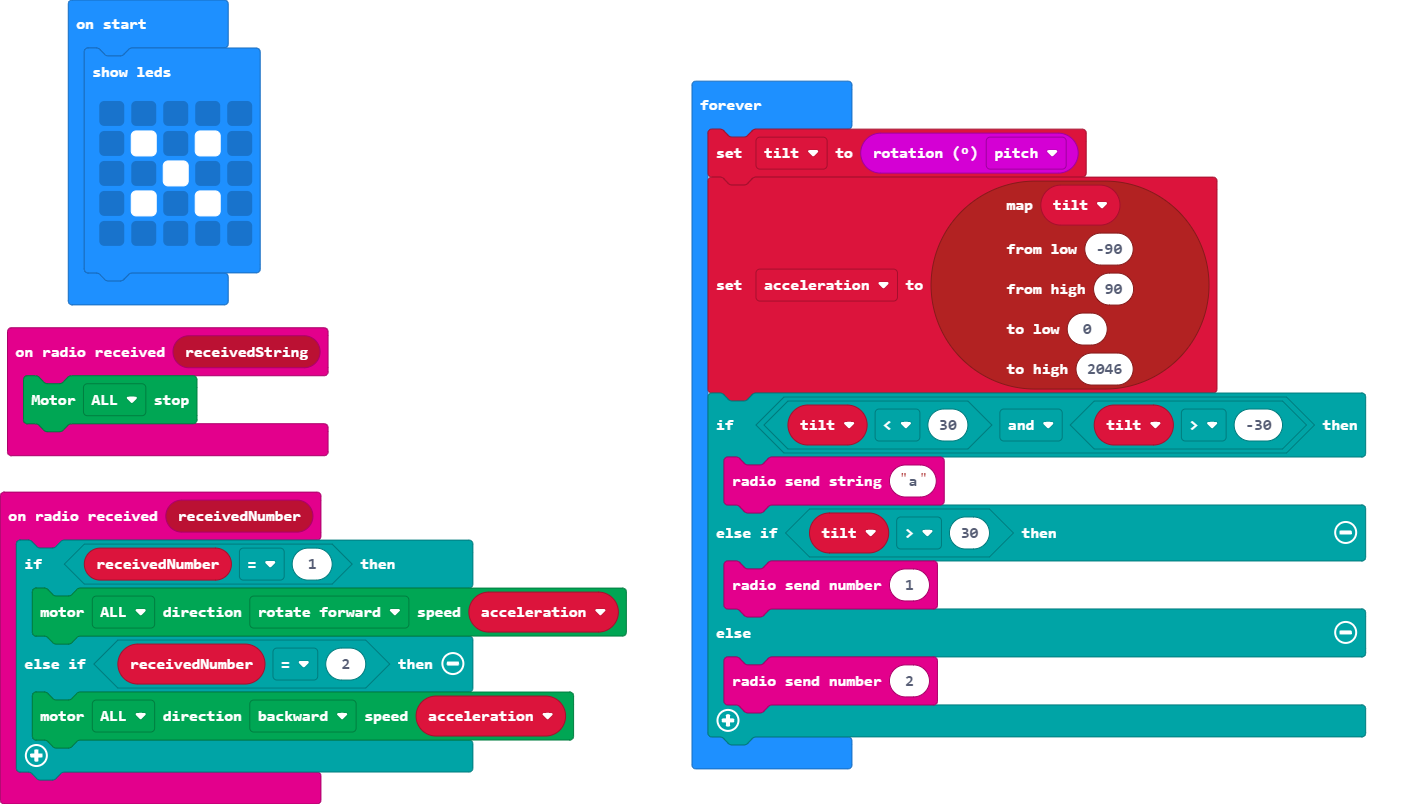
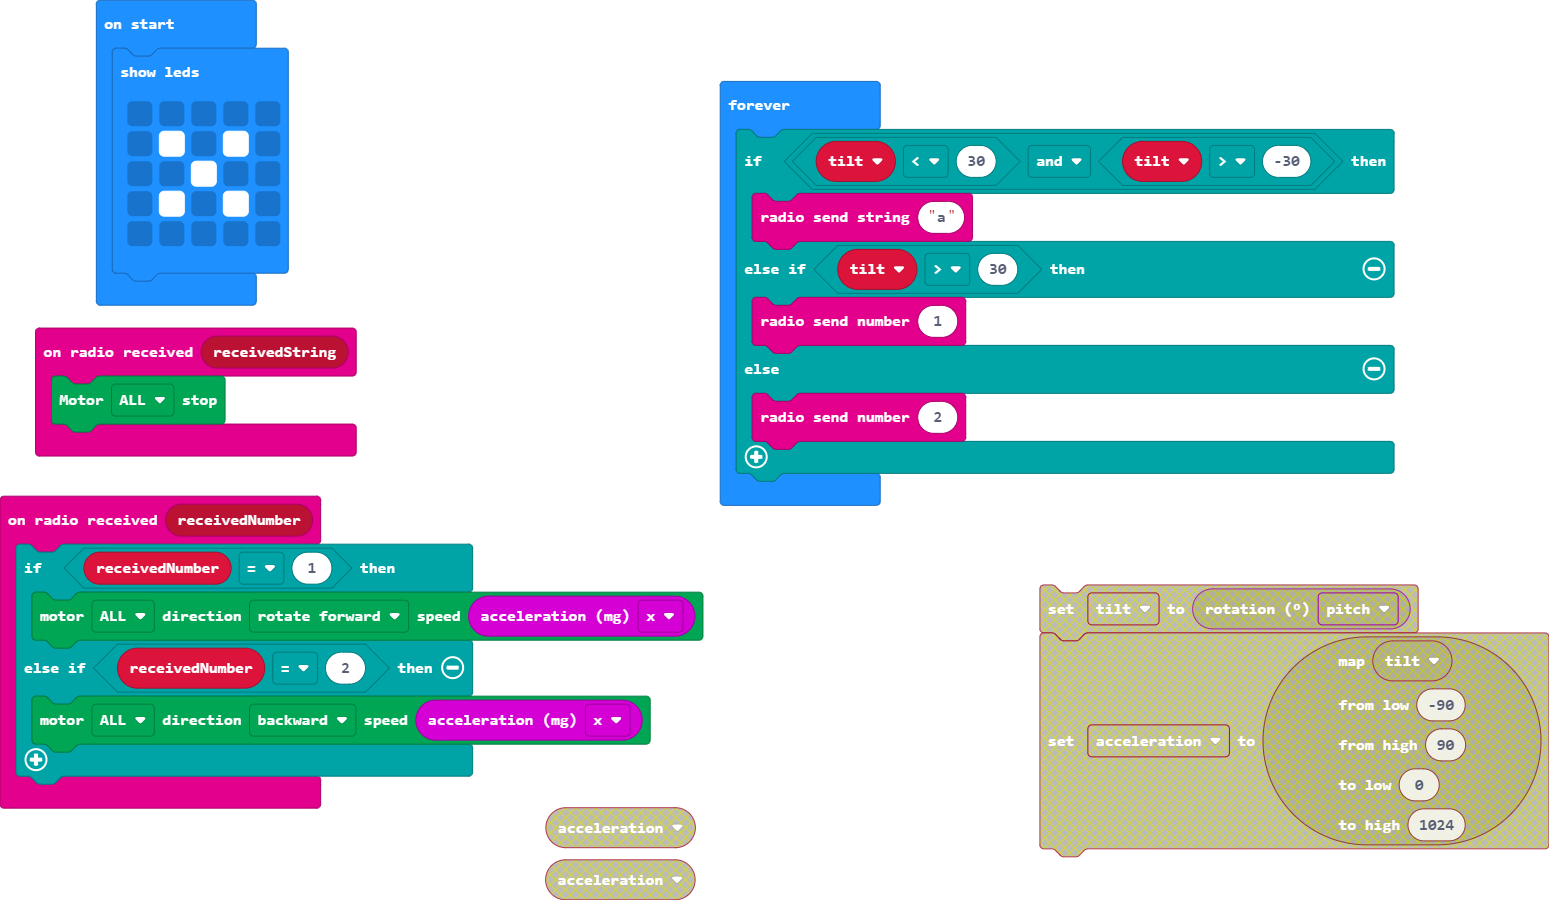
Update main.blocks, main.ts

diff --git a/main.ts b/main.ts
@@ -1,15 +1,13 @@
 radio.onReceivedNumber(function (receivedNumber) {
     if (receivedNumber == 1) {
-        DFRobotMaqueenPlus.mototRun(Motors.ALL, Dir.CW, acceleration)
+        DFRobotMaqueenPlus.mototRun(Motors.ALL, Dir.CW, input.acceleration(Dimension.X))
     } else if (receivedNumber == 2) {
-        DFRobotMaqueenPlus.mototRun(Motors.ALL, Dir.CCW, acceleration)
+        DFRobotMaqueenPlus.mototRun(Motors.ALL, Dir.CCW, input.acceleration(Dimension.X))
     }
 })
 radio.onReceivedString(function (receivedString) {
     DFRobotMaqueenPlus.mototStop(Motors.ALL)
 })
-let tilt = 0
-let acceleration = 0
 basic.showLeds(`
     . . . . .
     . # . # .
@@ -18,14 +16,7 @@ basic.showLeds(`
     . . . . .
     `)
 basic.forever(function () {
-    tilt = input.rotation(Rotation.Pitch)
-    acceleration = pins.map(
-    tilt,
-    -90,
-    90,
-    0,
-    2046
-    )
+    let tilt = 0
     if (tilt < 30 && tilt > -30) {
         radio.sendString("a")
     } else if (tilt > 30) {
